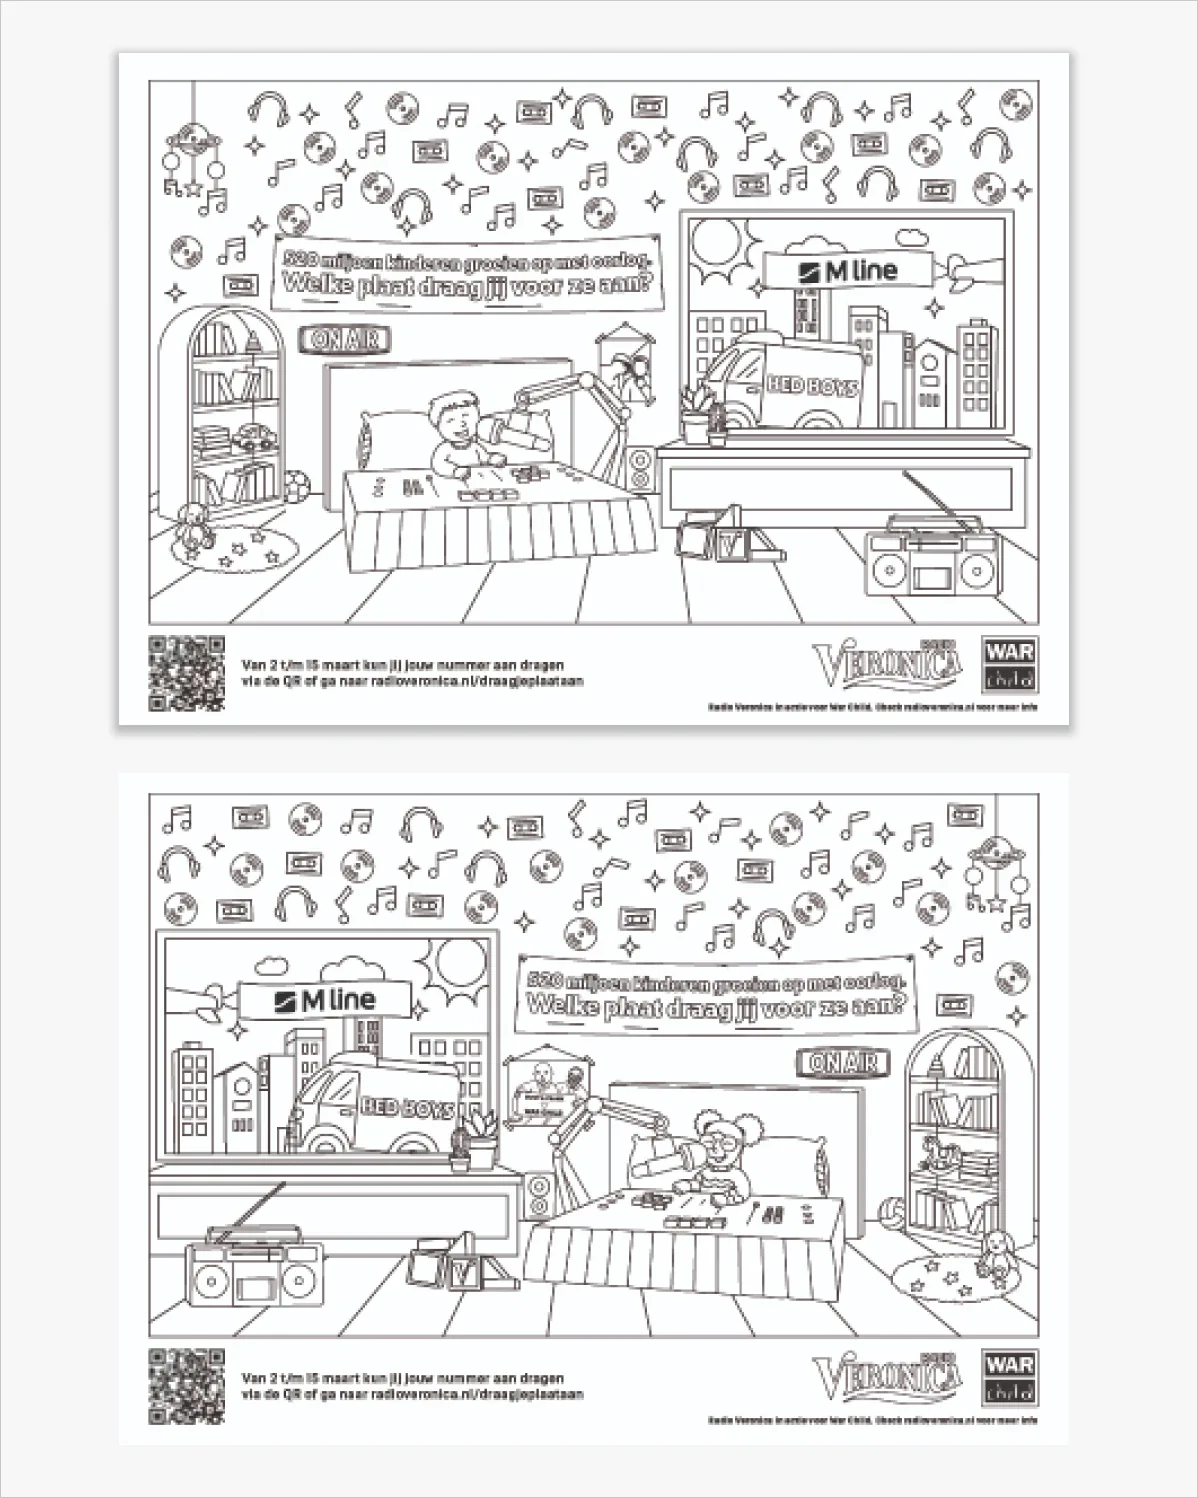
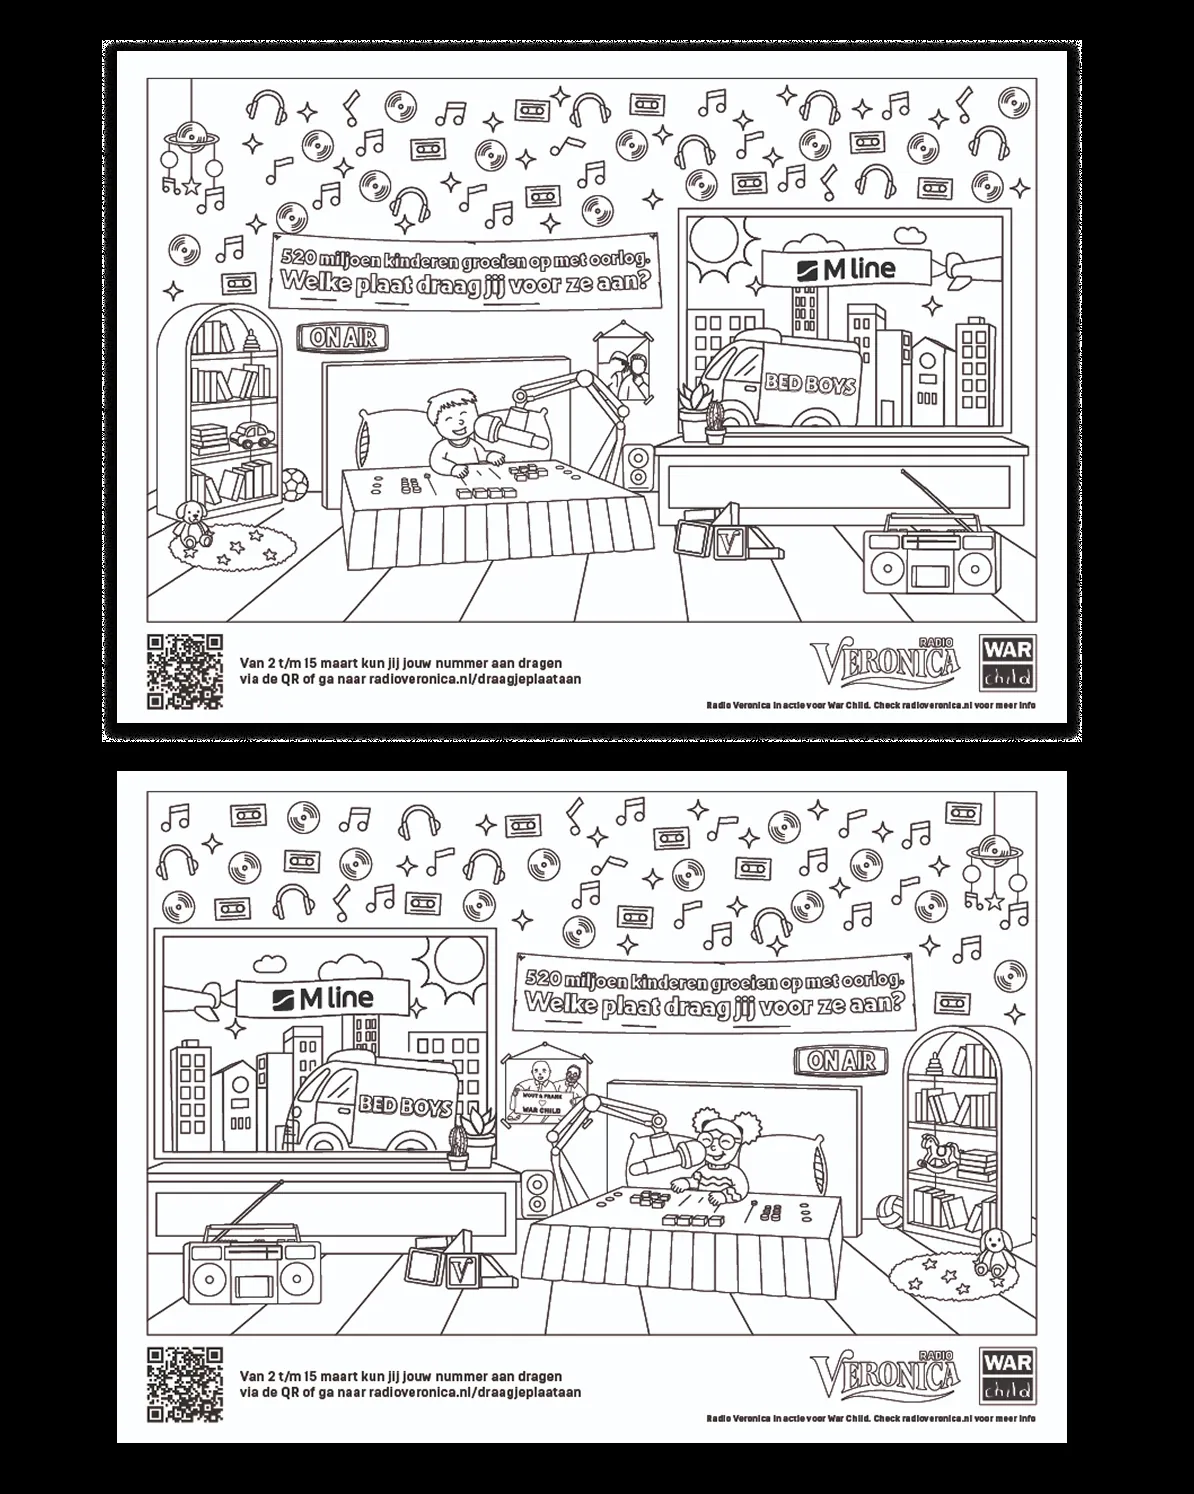
Fill (S)Top 520, Vriendenweekend and Brand in daily use with Figma visuals
Claude-Session: https://claude.ai/code/session_01NWkD1kBAMcB3pyjinMvoT7

diff --git a/css/js/projects.js b/css/js/projects.js
@@ -38,7 +38,7 @@ const projectsData = {
     card: {
       title: "Radio Veronica × War Child — (S)Top 520",
       eyebrow: "Campaigns",
-      image: "Assets/Projecten/Stop520/Stop520_1200_800.webp",
+      image: "Assets/Projecten/Stop520/web/card.webp",
       description: "Turning a radio studio into a child's colouring page, for 520 million children growing up with war.",
       tint: "orange"
     },
@@ -48,7 +48,7 @@ const projectsData = {
       headline: "A colouring page <span class=\"accent-highlight\">the size of a radio studio</span>.",
       button: "Explore (S)Top 520",
       stage: "framed",
-      images: ["Assets/Projecten/Stop520/Stop520_1200_800.webp"]
+      images: ["Assets/Projecten/Stop520/web/card.webp"]
     },
     year: "2026",
     facts: [
@@ -58,7 +58,7 @@ const projectsData = {
       ["My role", "Visual concept and design (campaign concept by the Veronica team)"],
       ["Deliverables", "Studio exterior, campaign logo, key visual, colouring pages, social templates, ads, print, car wrap"]
     ],
-    hero: { label: "Hero — the studio in the station hall, travellers walking past (photo 07314, Emma Pot / Jeroen Zondag)" },
+    hero: { src: "Assets/Projecten/Stop520/web/studio-station-hero.webp", alt: "The (S)Top 520 studio at Utrecht Centraal, travellers walking past", caption: "Photo: Emma Pot" },
     hook: "A colouring page the size of a radio studio.",
     blocks: [
       { type: "section", heading: "The campaign", text: [
@@ -72,28 +72,25 @@ const projectsData = {
       ]},
       { type: "split", items: [
         { src: "Assets/Projecten/Stop520/web/colouring-pages.webp", alt: "The two (S)Top 520 colouring pages", caption: "The drawing — colouring pages" },
-        { src: "Assets/Projecten/Stop520/web/studio-wall.webp", alt: "The coloured-in studio wall at Utrecht Centraal", caption: "The studio wall at Utrecht Centraal. Photo: Emma Pot" }
+        { src: "Assets/Projecten/Stop520/web/studio-wall.webp", alt: "The coloured-in studio wall", caption: "The studio wall. Photo: Emma Pot" }
       ]},
-      { type: "hero", item: { src: "Assets/Projecten/Stop520/web/line-work.webp", alt: "Close-up of the coloured-in line work on the studio", caption: "Line work up close. Photo: Emma Pot" } },
+      { type: "hero", item: { src: "Assets/Projecten/Stop520/web/line-work.webp", alt: "Close-up of the coloured-in line work", caption: "Line work up close. Photo: Emma Pot" } },
       { type: "section", heading: "The system", text: [
         "From that drawing I built the whole campaign identity: the (S)Top 520 logo, the key visual, social templates and posts, ads and print. And real colouring pages to take home."
       ]},
-      { type: "canvas", item: { label: "Roll-out canvas — logo, key visual, social posts, ad and print on white (to make)" } },
-      { type: "split", items: [
-        { src: "Assets/Projecten/Stop520/web/colouring-page-2.webp", alt: "Second (S)Top 520 colouring page", caption: "Colouring page to take home" },
-        { src: "Assets/Projecten/Stop520/web/bedboys-car.webp", alt: "M line Bed Boys car wrapped in the (S)Top 520 campaign", caption: "Car wrap — M line Bed Boys" }
-      ]},
+      { type: "canvas", item: { src: "Assets/Projecten/Stop520/web/rollout-canvas.webp", alt: "(S)Top 520 roll-out: key visual, studio, social, car wrap and coloured pages", caption: "Key visual, studio, social and the Bed Boys car wrap" } },
       { type: "section", heading: "What happened", text: [
         "Kids came to the station with their parents just to get a colouring page. The studio drew crowds of travellers all week, De Telegraaf covered the campaign several times, and both Radio Veronica and War Child were beyond happy with how it looked. [Optional: “The list closed with John Lennon's Imagine at number one.”]"
       ]},
       { type: "split", items: [
-        { label: "A table full of coloured-in pages (photo JZ12331)" },
-        { label: "DJs live in the studio (photo 03814)" }
+        { src: "Assets/Projecten/Stop520/web/table-of-pages.webp", alt: "Coloured-in pages from kids", caption: "Coloured-in pages. Photo: Jeroen Zondag" },
+        { src: "Assets/Projecten/Stop520/web/wall-of-pages.webp", alt: "A wall full of coloured-in pages in the studio", caption: "The studio wall filling up. Photo: Lars Goosselink" }
       ]},
+      { type: "hero", item: { src: "Assets/Projecten/Stop520/web/djs-live.webp", alt: "The DJs live in the studio, with the Instagram story next to it", caption: "Live on air, and on Instagram. Photo: Emma Pot" } },
       { type: "inset", items: [
-        { label: "The studio in the whole station hall (photo 03038 or 07345)" },
+        { src: "Assets/Projecten/Stop520/web/station-hall-wide.webp", alt: "The studio in the station hall", caption: "The studio in Utrecht Centraal. Photo: Emma Pot" },
         { label: "Telegraaf clipping, small" }
-      ], caption: "Photos: [Emma Pot / Jeroen Zondag]" }
+      ]}
     ]
   },
   "vriendenweekend": {
@@ -103,6 +100,7 @@ const projectsData = {
     card: {
       title: "Radio Veronica — Het Nationale Vriendenweekend",
       eyebrow: "Campaigns",
+      image: "Assets/Projecten/Vriendenweekend/web/card.webp",
       description: "Claiming one weekend for every friend group in the country. Logo approved at first pitch.",
       tint: "blue"
     },
@@ -112,8 +110,7 @@ const projectsData = {
       headline: "One weekend for <span class=\"accent-highlight\">every friend group</span> in the country.",
       button: "Explore Vriendenweekend",
       stage: "framed",
-      images: [],
-      label: "The branded house by the water, drone shot (DJI_0041)"
+      images: ["Assets/Projecten/Vriendenweekend/web/card.webp"]
     },
     year: "2026",
     facts: [
@@ -122,7 +119,7 @@ const projectsData = {
       ["My role", "Sole designer, visual concept and design (campaign concept by the Veronica team)"],
       ["Deliverables", "Logo, campaign identity, print, display, social, studio screens, web, branded beer and champagne bottles"]
     ],
-    hero: { label: "Hero — the logo, large, on the Veronica blue gradient (Vriendenweekend liggend 1920×1080)" },
+    hero: { src: "Assets/Projecten/Vriendenweekend/web/logo-hero.webp", alt: "Het Nationale Vriendenweekend logo on Veronica blue" },
     hook: "One weekend for every friend group in the country.",
     blocks: [
       { type: "section", heading: "The campaign", text: [
@@ -132,24 +129,28 @@ const projectsData = {
         "Carte blanche: make the weekend feel like a national tradition from day one."
       ]},
       { type: "section", heading: "The idea", text: [
-        "[Describe in 2 sentences what the logo is: e.g. “A holiday house full of friends, under a ribbon banner like an official seal: part holiday-park sign, part national holiday.”] I explored [x] directions, each built on a different side of a weekend away: [e.g. the journey, the house, the group, the party]. The one we chose got the strongest reaction, and the logo was approved at the first pitch with no changes."
+        "Three holiday houses huddled together under a golden ribbon, like an official seal: part holiday-park sign, part national holiday. I explored four directions, each built on a different side of a weekend away: the house, the roof over everyone, the packed weekend bag and the group itself. The one we chose got the strongest reaction, and the logo was approved at the first pitch with no changes."
       ]},
       { type: "grid", columns: 4, items: [
-        { label: "Direction 1" }, { label: "Direction 2" }, { label: "Direction 3" }, { label: "Chosen direction" }
-      ], caption: "The explored directions, chosen one marked (to make)" },
+        { src: "Assets/Projecten/Vriendenweekend/web/direction-1.webp", alt: "Chosen direction: houses under a golden ribbon" },
+        { src: "Assets/Projecten/Vriendenweekend/web/direction-2.webp", alt: "Direction: one roof over everyone" },
+        { src: "Assets/Projecten/Vriendenweekend/web/direction-3.webp", alt: "Direction: the weekend bag" },
+        { src: "Assets/Projecten/Vriendenweekend/web/direction-4.webp", alt: "Direction: the friend group" }
+      ], caption: "Four directions — the chosen one first" },
       { type: "section", heading: "The roll-out", text: [
         "From one logo to everything the weekend touched: print, display and social campaigns, studio screens, web, and branded beer and champagne bottles for the weekend itself."
       ]},
-      { type: "canvas", item: { label: "Format canvas — social, display, studio screen and web on one blue background (to make)" } },
+      { type: "canvas", item: { src: "Assets/Projecten/Vriendenweekend/web/rollout-canvas.webp", alt: "The weekend in photos: studio, house, bingo, bottles and friends", caption: "The weekend itself. Photos: Jeroen Zondag" } },
       { type: "split", items: [
-        { label: "Bingo board, welcome card and coaster on one table (CSZ26222)" },
-        { label: "Pitch & Putt and Escape signs on easels (CSZ13035)" }
+        { src: "Assets/Projecten/Vriendenweekend/web/bingo-table.webp", alt: "Bingo board, welcome card, coaster and cava on the table", caption: "Bingo board, welcome card and coaster" },
+        { src: "Assets/Projecten/Vriendenweekend/web/signs-easels.webp", alt: "Pitch & Putt and Escape signs on easels", caption: "Activity signs" }
       ]},
       { type: "split", items: [
-        { label: "Beer bottle" },
-        { label: "Champagne bottle" }
+        { src: "Assets/Projecten/Vriendenweekend/web/beer-bottle.webp", alt: "Vriendenweekend beer bottle", caption: "Beer" },
+        { src: "Assets/Projecten/Vriendenweekend/web/cava-bottle.webp", alt: "Vriendenweekend cava bottle", caption: "Cava" }
       ]},
-      { type: "hero", item: { label: "The weekend itself — drone shot of the branded house by the water (DJI_0041)" }, caption: "Photos: [photographer]" }
+      { type: "hero", item: { src: "Assets/Projecten/Vriendenweekend/web/friends-bingo.webp", alt: "A friend group with their completed bingo board", caption: "A full bingo card. Photo: Jeroen Zondag" } },
+      { type: "hero", item: { src: "Assets/Projecten/Vriendenweekend/web/drone-house.webp", alt: "Drone shot of everyone in front of the branded house by the water", caption: "Everyone at the Veronica house. Photo: Jeroen Zondag" } }
     ]
   },
   "mediahuis-radio": {
@@ -159,6 +160,7 @@ const projectsData = {
     card: {
       title: "Mediahuis Radio — Brand in daily use",
       eyebrow: "Campaigns",
+      image: "Assets/Projecten/MediahuisRadio/web/mhr-illustration.webp",
       description: "Keeping Radio Veronica, SLAM! and 100% NL recognisable everywhere, and dreaming up the branded content around them.",
       tint: "cyan"
     },
@@ -169,46 +171,85 @@ const projectsData = {
       ["Role", "Junior Creative Designer & creative concepter, in-house"],
       ["Output", "Studio screens, print up to A0, 9:16 digital, social ads, HTML5 banners, merch and prizes"]
     ],
-    hero: { label: "Hero — a studio with your screen design live on air, or the A0 poster in place" },
+    hero: { src: "Assets/Projecten/MediahuisRadio/web/mhr-illustration.webp", alt: "Mediahuis Radio illustration: listeners of SLAM!, 100% NL, Sublime and Radio Veronica", caption: "Mediahuis Radio — illustrated by me" },
     hook: "Not every brief is a billboard.",
     blocks: [
       { type: "section", text: [
         "Most days I'm making three very different radio brands work in a hundred small places: studio screens (static and animated), A0 posters, 9:16 screens, social ads, HTML5 banners, and the prizes listeners win, from mugs to greeting cards to socks. The job is to keep every piece unmistakably Veronica, SLAM! or 100% NL, and still make it feel made for its moment."
       ]},
       { type: "grid", columns: 4, items: [
-        { label: "Radio Veronica" }, { label: "Radio Veronica" }, { label: "Radio Veronica" }, { label: "Radio Veronica" },
-        { label: "SLAM!" }, { label: "SLAM!" }, { label: "SLAM!" }, { label: "SLAM!" },
-        { label: "100% NL" }, { label: "100% NL" }, { label: "100% NL" }, { label: "100% NL" }
-      ], caption: "Radio Veronica · SLAM! · 100% NL — 16–20 assets, grouped by brand" },
+        { src: "Assets/Projecten/MediahuisRadio/web/veronica-muziekquiz.webp", alt: "Radio Veronica De Beste Muziekquiz Allertijden" },
+        { src: "Assets/Projecten/MediahuisRadio/web/veronica-cafe.webp", alt: "Het Radio Veronica Café social post" },
+        { src: "Assets/Projecten/MediahuisRadio/web/veronica-efteling.webp", alt: "Radio Veronica x Efteling Love at First Ride" },
+        { src: "Assets/Projecten/MediahuisRadio/web/veronica-fluisteraar.webp", alt: "Radio Veronica De Fluisteraar" }
+      ], caption: "Radio Veronica" },
+      { type: "grid", columns: 4, items: [
+        { src: "Assets/Projecten/MediahuisRadio/web/slam-summer500.webp", alt: "SLAM! Summer 500" },
+        { src: "Assets/Projecten/MediahuisRadio/web/slam-alaafondshow.webp", alt: "SLAM! Alaafondshow" },
+        { src: "Assets/Projecten/MediahuisRadio/web/slam-gok-winners.webp", alt: "SLAM! Gok van je leven winners" },
+        { src: "Assets/Projecten/MediahuisRadio/web/slam-festivalmaand.webp", alt: "SLAM! Festivalmaand" }
+      ], caption: "SLAM!" },
+      { type: "grid", columns: 4, items: [
+        { src: "Assets/Projecten/MediahuisRadio/web/100nl-top1000.webp", alt: "100% NL Top 1000" },
+        { src: "Assets/Projecten/MediahuisRadio/web/100nl-sinterklaas.webp", alt: "100% NL Sinterklaas" },
+        { src: "Assets/Projecten/MediahuisRadio/web/100nl-somertijd.webp", alt: "100% NL Somertijd BBQ cards" },
+        { src: "Assets/Projecten/MediahuisRadio/web/100nl-tijdmachine.webp", alt: "100% NL Tijdmachine" }
+      ], caption: "100% NL" },
       { type: "section", heading: "Living a new identity", text: [
         "I started just as Radio Veronica rolled out a new visual identity. I didn't write the guidelines, but I helped bring them to life: updating visuals across every channel, keeping new work in line, and building each new campaign on top of the brand guide. On photoshoots I was second designer on set, checking that every shot fitted the new direction and that we caught the energy of each show."
       ]},
       { type: "section", heading: "Highlights", list: [
+        "<strong>Radio Veronica — Het Radio Veronica Café:</strong> [one line — confirm which parts of the Café identity you designed].",
+        "<strong>100% NL — Tijdmachine:</strong> [one line].",
+        "<strong>SLAM! — Festivalmaand:</strong> [one line].",
+        "<strong>SLAM! — Summer 500:</strong> [one line].",
         "<strong>SLAM! — Gok van je leven:</strong> my first big campaign at Mediahuis, as the sole designer.",
-        "<strong>Radio Veronica — De Beste Muziekquiz Allertijden:</strong> logo and digital campaign for the Top 3000 edition.",
-        "<strong>SLAM! — Festivalmaand &amp; ADE:</strong> [one line].",
-        "<strong>100% NL — Tijdmachine &amp; Somertijd:</strong> [one line]."
+        "<strong>Radio Veronica — De Beste Muziekquiz Allertijden:</strong> logo and digital campaign for the Top 3000 edition."
       ]},
-      { type: "triptych", ratio: "4 / 5", items: [
-        { label: "Social post 1080×1350" }, { label: "Story 1080×1920" }, { label: "Thumb 1920×1080" }
-      ], caption: "SLAM! — Gok van je leven: one key visual in three formats" },
       { type: "split", items: [
-        { label: "DBMAT logo on blue" }, { label: "Top 3000 edition" }
-      ], caption: "Radio Veronica — De Beste Muziekquiz Allertijden" },
-      { type: "hero", item: { label: "Tijdmachine logo concepts (4 directions)" } },
+        { src: "Assets/Projecten/MediahuisRadio/web/cafe-key-visual.webp", alt: "Het Radio Veronica Café key visual" },
+        { src: "Assets/Projecten/MediahuisRadio/web/cafe-coaster.webp", alt: "Het Radio Veronica Café coaster in the bar", caption: "In the bar. Photo: Bram Rietveld" }
+      ], caption: "Radio Veronica — Het Radio Veronica Café" },
+      { type: "hero", item: { src: "Assets/Projecten/MediahuisRadio/web/cafe-studio.webp", alt: "DJ live in the Café studio, in front of the shield", caption: "Live from the Café. Photo: Bram Rietveld" } },
+      { type: "hero", item: { src: "Assets/Projecten/MediahuisRadio/web/tijdmachine-concepts.webp", alt: "Four logo concepts for 100% NL Tijdmachine", caption: "Four logo concepts" } },
+      { type: "hero", item: { src: "Assets/Projecten/MediahuisRadio/web/tijdmachine-chosen.webp", alt: "The chosen Tijdmachine logo on orange", caption: "The chosen logo" } },
       { type: "triptych", ratio: "9 / 16", items: [
-        { label: "Studio screen — Jaren 80" }, { label: "Studio screen — Jaren 90" }, { label: "Studio screen — Jaren 00" }
+        { src: "Assets/Projecten/MediahuisRadio/web/tijdmachine-80.webp", alt: "Tijdmachine studio screen Jaren 80" },
+        { src: "Assets/Projecten/MediahuisRadio/web/tijdmachine-90.webp", alt: "Tijdmachine studio screen Jaren 90" },
+        { src: "Assets/Projecten/MediahuisRadio/web/tijdmachine-00.webp", alt: "Tijdmachine studio screen Jaren 00" }
       ], caption: "100% NL — Tijdmachine: same frame, different decade" },
+      { type: "grid", columns: 4, items: [
+        { src: "Assets/Projecten/MediahuisRadio/web/festivalmaand-wip1.webp", alt: "Festivalmaand work in progress 1" },
+        { src: "Assets/Projecten/MediahuisRadio/web/festivalmaand-wip3.webp", alt: "Festivalmaand work in progress 3" },
+        { src: "Assets/Projecten/MediahuisRadio/web/festivalmaand-wip5.webp", alt: "Festivalmaand work in progress 5" },
+        { src: "Assets/Projecten/MediahuisRadio/web/festivalmaand-wip8.webp", alt: "Festivalmaand work in progress 8" }
+      ], caption: "SLAM! — Festivalmaand: the road to the logo" },
+      { type: "split", items: [
+        { src: "Assets/Projecten/MediahuisRadio/web/festivalmaand-wristband.webp", alt: "Festivalmaand wristband direction", caption: "The wristband direction" },
+        { src: "Assets/Projecten/MediahuisRadio/web/festivalmaand-story.webp", alt: "Final Festivalmaand 9:16 screen", caption: "Final — 9:16" }
+      ]},
+      { type: "triptych", ratio: "16 / 9", items: [
+        { src: "Assets/Projecten/MediahuisRadio/web/summer500-v1.webp", alt: "Summer 500 version 1" },
+        { src: "Assets/Projecten/MediahuisRadio/web/summer500-v3.webp", alt: "Summer 500 version 3" },
+        { src: "Assets/Projecten/MediahuisRadio/web/summer500-v4.webp", alt: "Summer 500 version 4" }
+      ], caption: "SLAM! — Summer 500: earlier versions" },
+      { type: "hero", item: { src: "Assets/Projecten/MediahuisRadio/web/summer500-final.webp", alt: "Final Summer 500 visual", caption: "Final version" } },
+      { type: "split", items: [
+        { src: "Assets/Projecten/MediahuisRadio/web/gok-post.webp", alt: "Gok van je leven social post", caption: "Social post" },
+        { src: "Assets/Projecten/MediahuisRadio/web/gok-story.webp", alt: "Gok van je leven story: win a trip to Las Vegas", caption: "Story" }
+      ], caption: "SLAM! — Gok van je leven" },
+      { type: "hero", item: { src: "Assets/Projecten/MediahuisRadio/web/gok-cheque.webp", alt: "The winners with the Gok van je leven cheque", caption: "The winners, with the cheque I designed" } },
+      { type: "split", ratio: "16 / 9", items: [
+        { src: "Assets/Projecten/MediahuisRadio/web/muziekquiz-logo.webp", alt: "De Beste Muziekquiz Allertijden logo", caption: "The logo" },
+        { src: "Assets/Projecten/MediahuisRadio/web/muziekquiz-top3000.webp", alt: "De Beste Muziekquiz Allertijden Top 3000 edition", caption: "Top 3000 edition" }
+      ], caption: "Radio Veronica — De Beste Muziekquiz Allertijden" },
       { type: "section", heading: "Branded content: from idea to pitch", text: [
         "Next to design, I come up with branded content concepts: ways to weave an advertiser's message into the radio, so it feels like content instead of an ad. I pitch them to station directors, marketing directors and account managers. They range from a quick, sharp radio game for the release of <em>Scream 7</em> on SLAM! (“Win or Die”) to large productions like Jumbo × 100% NL's <em>Het Super Kerstdiner</em>: a full Christmas dinner for 100 listeners inside a Jumbo supermarket. [Check: which parts of each concept were yours?]"
       ]},
-      { type: "split", ratio: "16 / 10", items: [
-        { label: "Concept board — Scream 7 “Win or Die”" }, { label: "Concept board — Jumbo Het Super Kerstdiner" }
-      ]},
-      { type: "section", heading: "Making the system better", text: [
-        "I'm building an AI-assisted workflow that takes a finished key visual and adapts it to every format, so the designer's time goes to the idea, not the resizing. And I'm redesigning how briefs come in, how work gets checked, and when each team joins."
-      ]},
-      { type: "breakdown", item: { label: "Optional — the AI format workflow as a simple diagram (key visual → all formats)" } }
+      { type: "split", items: [
+        { src: "Assets/Projecten/MediahuisRadio/web/best-best-man.webp", alt: "SLAM! concept board The Best Best Man", caption: "SLAM! — The Best Best Man" },
+        { src: "Assets/Projecten/MediahuisRadio/web/jumbo-kerstdiner.webp", alt: "Jumbo x 100% NL Het Super Kerstdiner concept board", caption: "Jumbo × 100% NL — Het Super Kerstdiner" }
+      ]}
     ]
   },
   "domibo": {
